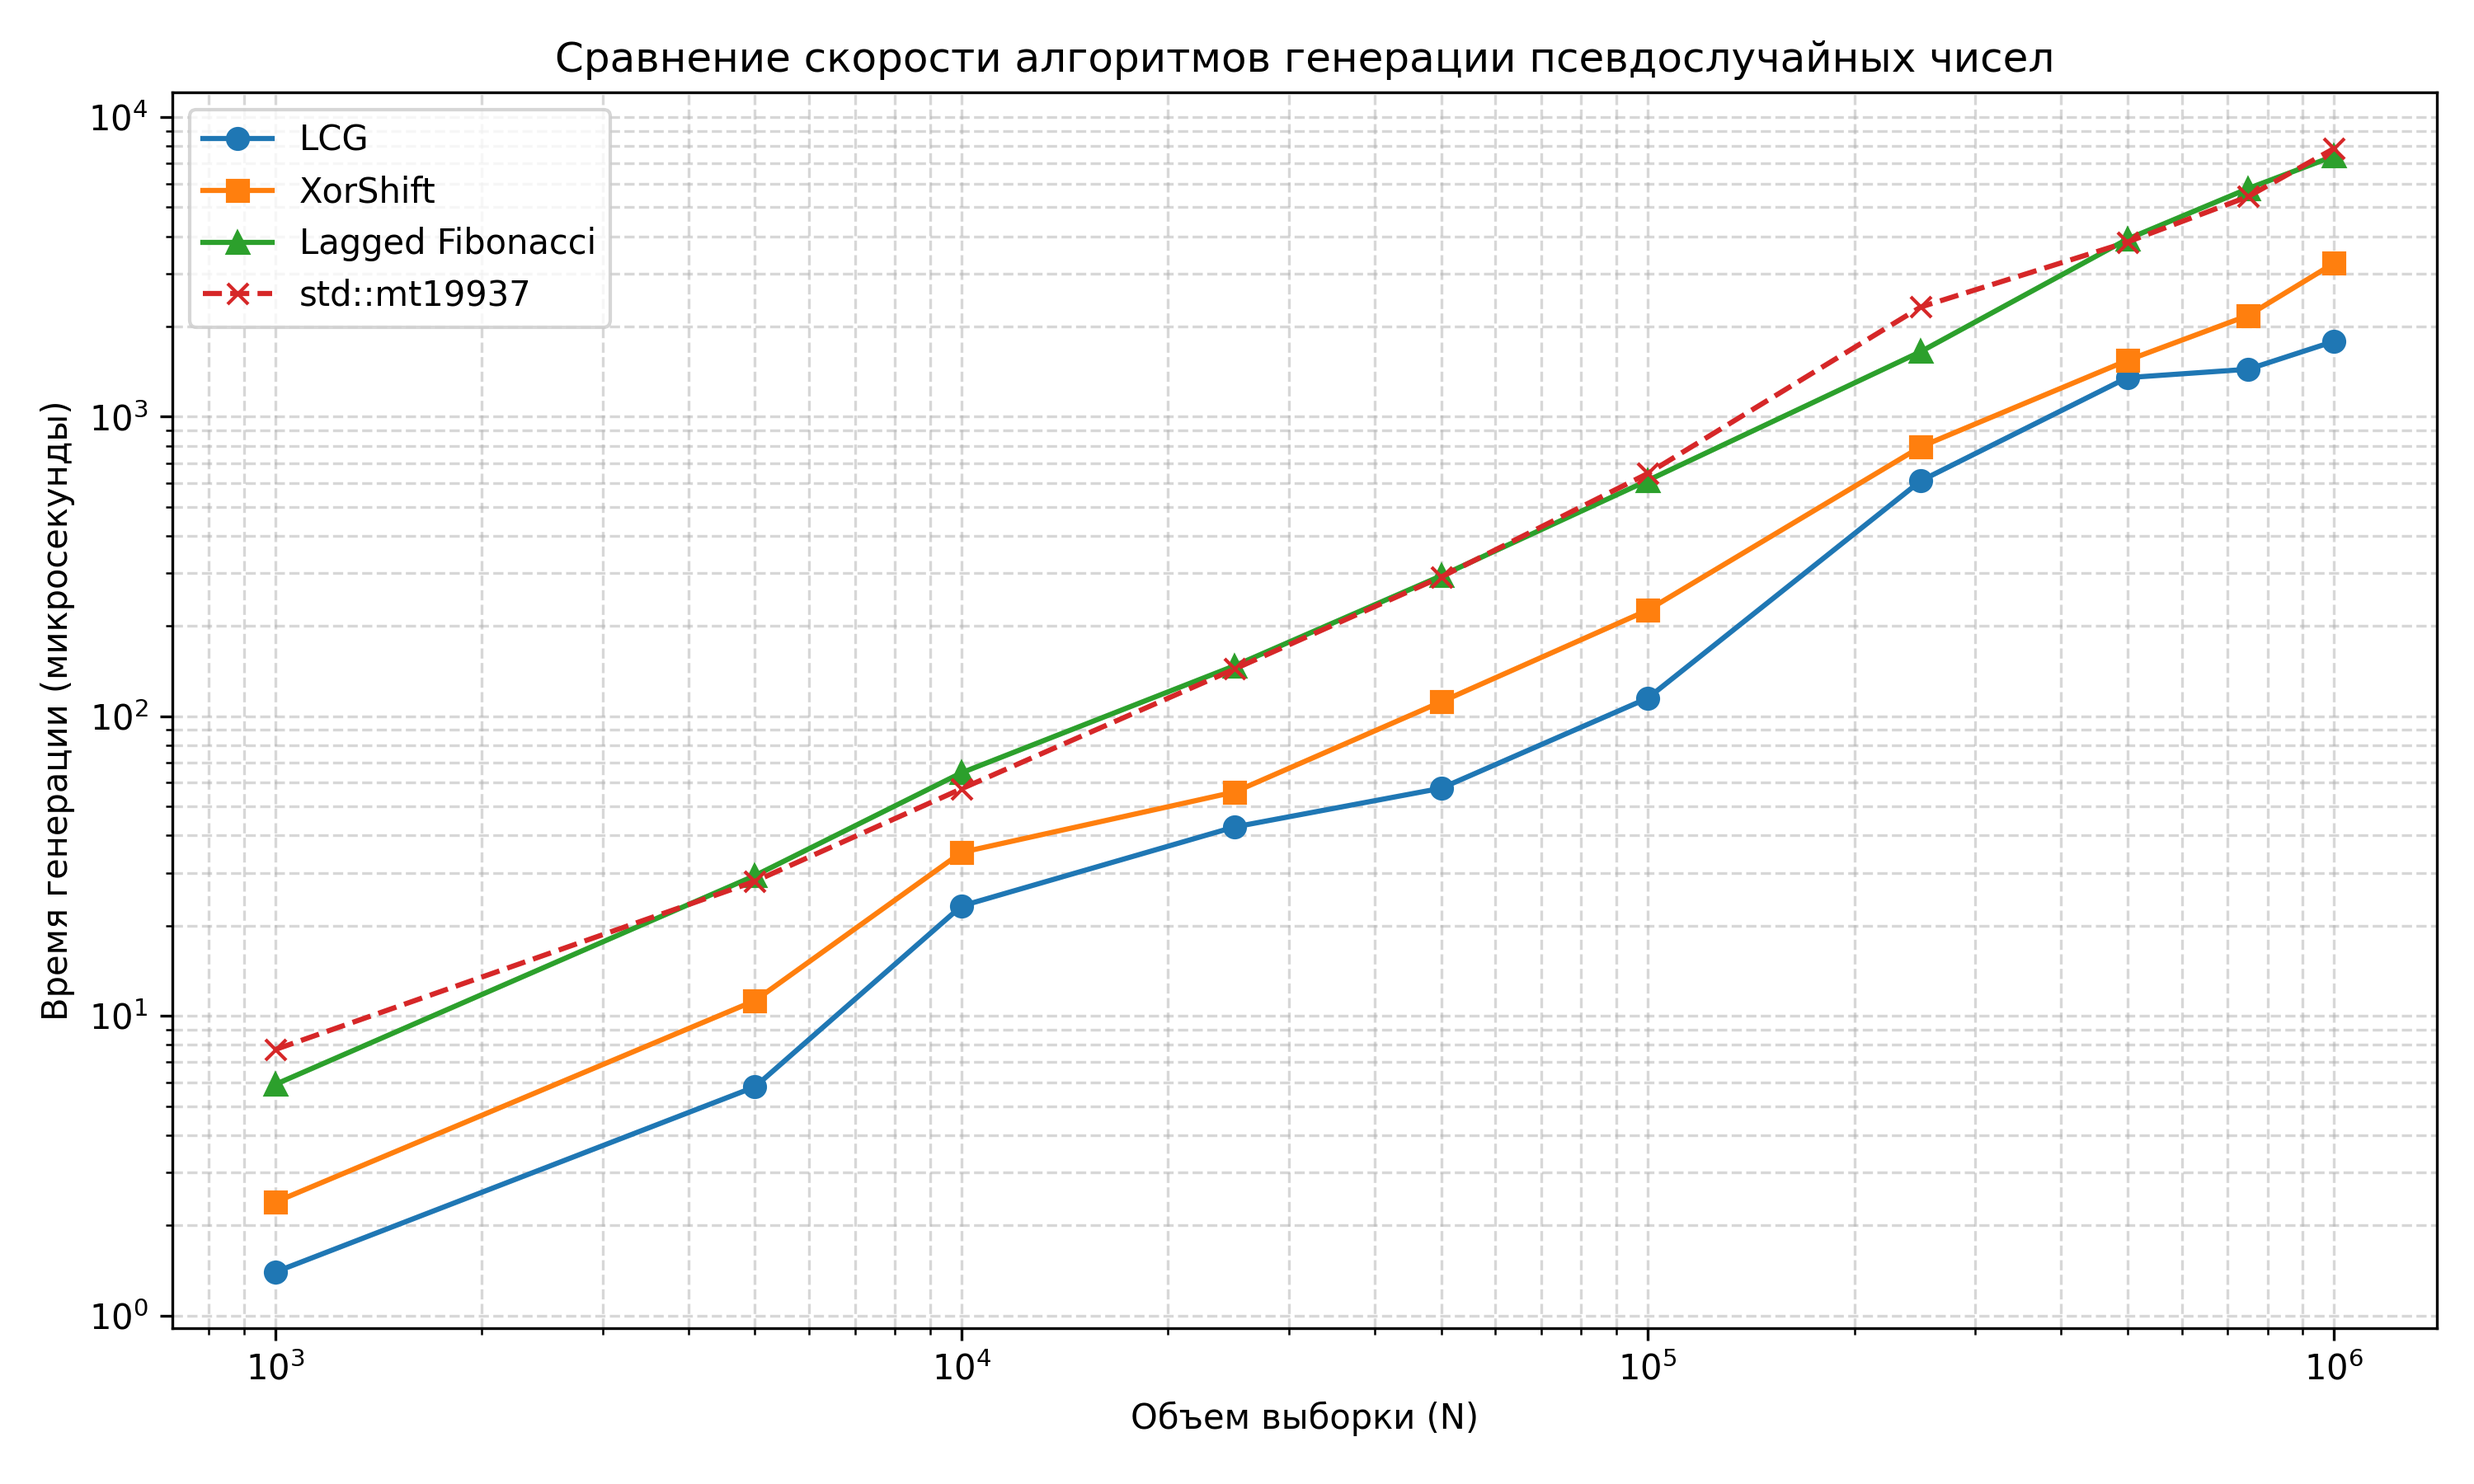
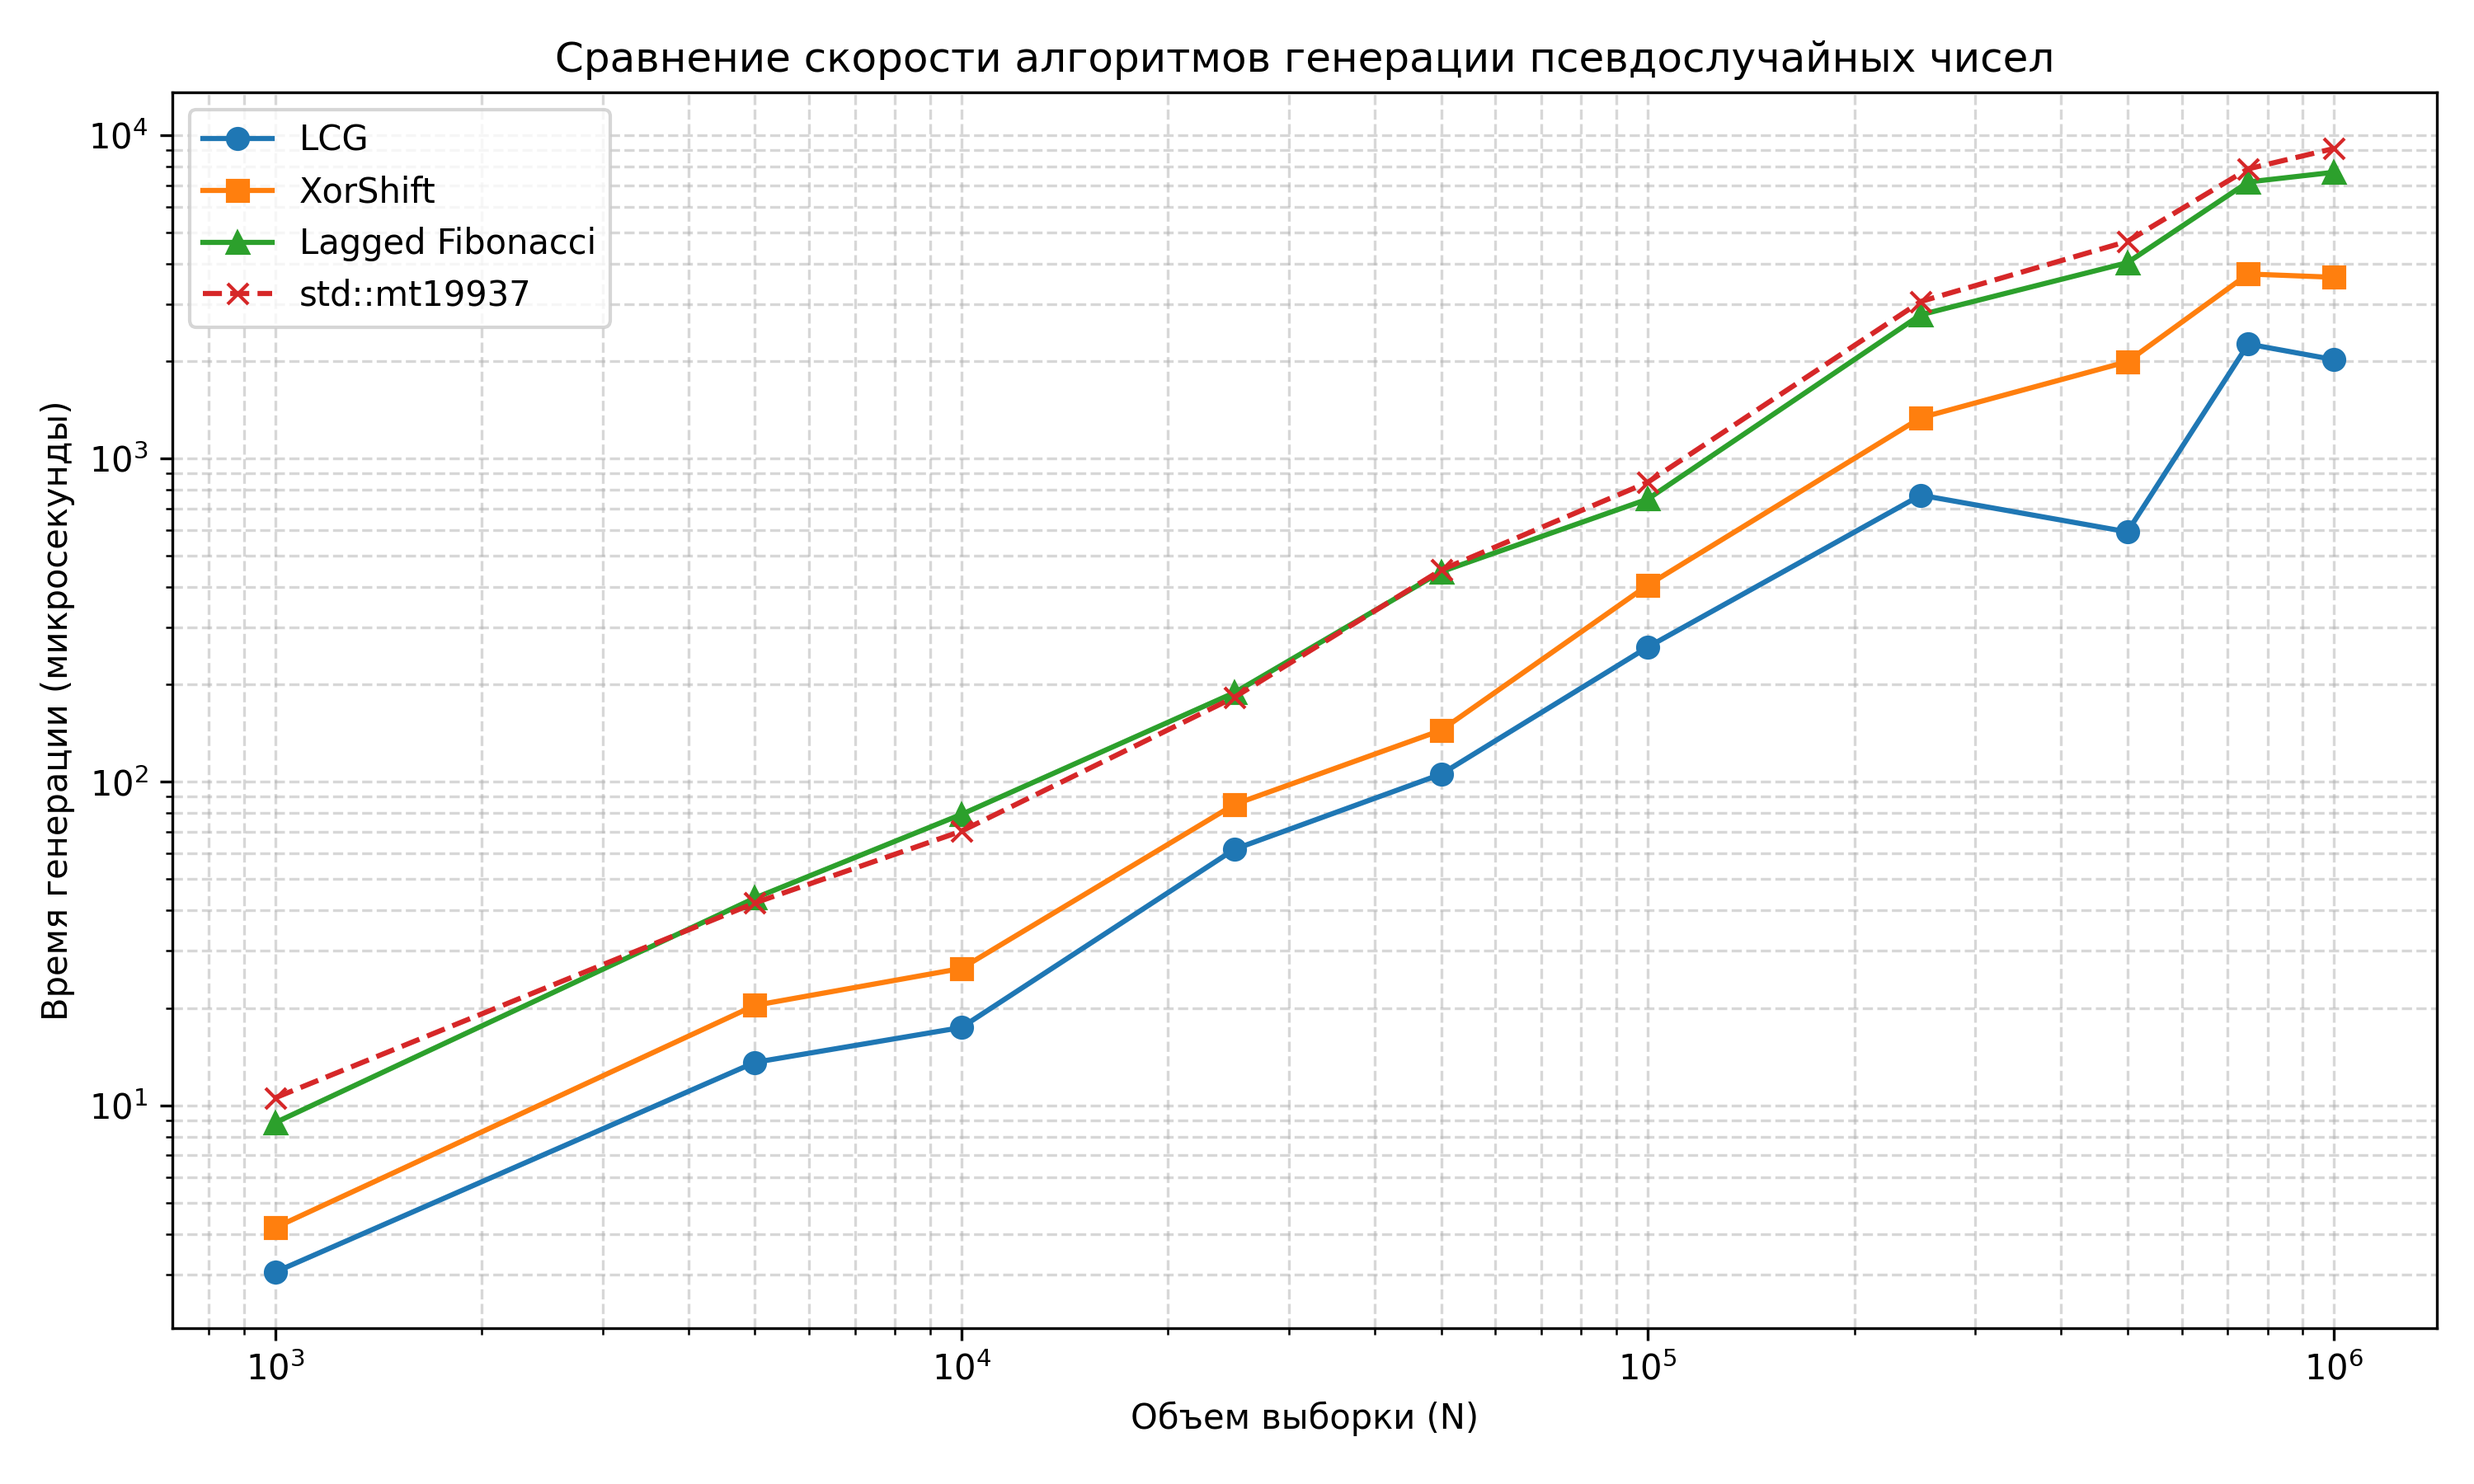
chi_square functions

diff --git a/stats.cpp b/stats.cpp
@@ -5,10 +5,72 @@
 #include "stats.h"
 #include <cmath>
 #include <algorithm>
+#include <stdexcept>
+
+// функции для проверки Хи-квадрат
+bool checkChiSquare(double chi_square, int df) {
+    if (df <= 0) return false;
+
+    // Таблица критических значений Хи-квадрат для alpha = 0.05
+    static const std::vector<double> chi_square_critical_005 = {
+        0.0,
+        3.841,  5.991,  7.815,  9.488,  11.070, 12.592, 14.067, 15.507, 16.919, 18.307,
+        19.675, 21.026, 22.362, 23.685, 24.996, 26.296, 27.587, 28.869, 30.144, 31.410,
+        32.671, 33.924, 35.172, 36.415, 37.652, 38.885, 40.113, 41.337, 42.557, 43.773
+    };
+    
+    double critical_value;
+    if (df < chi_square_critical_005.size()) {
+        critical_value = chi_square_critical_005[df];
+    } else {
+        double z = 1.645;
+        critical_value = 0.5 * std::pow((z + std::sqrt(2.0 * df - 1.0)), 2);
+    }
+
+    return chi_square < critical_value;
+}
+
+bool checkSerialRandomness(const std::vector<double>& sample, double max_val) {
+    int n = sample.size();
+    const int k = 5;
+    const int num_cells = k * k; 
+    
+    std::vector<int> observed(num_cells, 0);
+
+    int pairs_count = n / 2;
+    double expected = static_cast<double>(pairs_count) / num_cells;
+
+    for (int i = 0; i < n - 1; i += 2) {
+        double norm1 = sample[i] / max_val;
+        double norm2 = sample[i+1] / max_val;
+
+        int bin1 = static_cast<int>(norm1 * k);
+        int bin2 = static_cast<int>(norm2 * k);
+
+        if (bin1 >= k) bin1 = k - 1;
+        if (bin2 >= k) bin2 = k - 1;
+        if (bin1 < 0) bin1 = 0;
+        if (bin2 < 0) bin2 = 0;
+
+        int cell_index = bin1 * k + bin2;
+        observed[cell_index]++;
+    }
+
+    double chi2_stat = 0.0;
+    for (int i = 0; i < num_cells; ++i) {
+        double diff = observed[i] - expected;
+        chi2_stat += (diff * diff) / expected;
+    }
+
+    double chi2_crit_min = 13.848;
+    double chi2_crit_max = 36.415;
+
+    return (chi2_stat >= chi2_crit_min && chi2_stat <= chi2_crit_max);
+}
 
 Stats calculate_stats(const std::vector<double>& sample, double max_val) {
     size_t n = sample.size();
-    Stats stats = {0.0, 0.0, 0.0, 0.0};
+    Stats stats = {0.0, 0.0, 0.0, 0.0, false, false};
 
     // 1. Математическое ожидание
     for (double val : sample) stats.mean += val;
@@ -25,12 +87,11 @@ Stats calculate_stats(const std::vector<double>& sample, double max_val) {
     // 3. Коэффициент вариации
     stats.cv = stats.stddev / stats.mean;
 
-    // 4. Критерий Хи-квадрат (Формула Стерджеса для k)
-    int k = std::max(1, static_cast<int>(1 + 3.322 * std::log(n))); 
+    // 4. Критерий Хи-квадрат
+    int k = std::max(1, static_cast<int>(1 + std::log2(n))); 
     std::vector<int> frequencies(k, 0);
     
     for (double val : sample) {
-        // Нормализуем значение в индекс корзины
         int idx = static_cast<int>((val / max_val) * k);
         if (idx >= k) idx = k - 1;
         if (idx < 0) idx = 0;
@@ -41,6 +102,12 @@ Stats calculate_stats(const std::vector<double>& sample, double max_val) {
     for (int freq : frequencies) {
         stats.chi_square += std::pow(freq - expected_freq, 2) / expected_freq;
     }
+    
+    // Проверка критерия Хи-квадрат
+    int k_unif = std::max(1, static_cast<int>(1 + std::log2(n))); 
+    stats.is_passed = checkChiSquare(stats.chi_square, k_unif - 1);
+
+    stats.is_random = checkSerialRandomness(sample, max_val);
 
     return stats;
 }

diff --git a/utils.h b/utils.h
@@ -62,8 +62,10 @@ void run_and_save_statistics(PRNG& gen, const std::string& gen_name, std::ofstre
                              
     std::cout << "\nСтатистика " << num_samples << " выборок для " << gen_name 
               << " (Диапазон 0-" << range_max << ")\n";
+              
     std::cout << std::setw(8) << "Sample" << std::setw(15) << "Mean" << std::setw(15) << "StdDev" 
-              << std::setw(15) << "CV" << std::setw(15) << "Chi-Square" << "\n";
+              << std::setw(15) << "CV" << std::setw(15) << "Chi-Square" 
+              << std::setw(10) << "Uniform?" << std::setw(10) << "Random?" << "\n";
          
     for (int i = 0; i < num_samples; ++i) {
         std::vector<double> sample(sample_size);
@@ -73,16 +75,19 @@ void run_and_save_statistics(PRNG& gen, const std::string& gen_name, std::ofstre
         
         Stats s = calculate_stats(sample, range_max);
         
-        // Вывод в консоль
         std::cout << std::setw(8) << i + 1 
                   << std::setw(15) << s.mean 
                   << std::setw(15) << s.stddev 
                   << std::setw(15) << s.cv 
-                  << std::setw(15) << s.chi_square << "\n";
+                  << std::setw(15) << s.chi_square
+                  << std::setw(10) << (s.is_passed ? "Yes" : "No")
+                  << std::setw(10) << (s.is_random ? "Yes" : "No") << "\n";
              
-        // Запись в CSV файл
+        // Запись в CSV файл 
         csv_file << gen_name << "," << i + 1 << "," << s.mean << "," 
-                 << s.stddev << "," << s.cv << "," << s.chi_square << "\n";
+                 << s.stddev << "," << s.cv << "," << s.chi_square << ","
+                 << (s.is_passed ? "Yes" : "No") << ","
+                 << (s.is_random ? "Yes" : "No") << "\n";
     }
 }
 

diff --git a/stats.h b/stats.h
@@ -11,10 +11,12 @@
  * @brief Структура для хранения статистических данных выборки.
  */
 struct Stats {
-    double mean;       ///< Математическое ожидание
-    double stddev;     ///< Среднеквадратичное отклонение
-    double cv;         ///< Коэффициент вариации
-    double chi_square; ///< Значение критерия Хи-квадрат
+    double mean;       // Математическое ожидание
+    double stddev;     // Среднеквадратичное отклонение
+    double cv;         // Коэффициент вариации
+    double chi_square; // Значение критерия Хи-квадрат
+    bool is_passed; // Пройден ли тест на равномерность
+    bool is_random; // Пройден ли тест на случайность
 };
 
 /**

diff --git a/main.cpp b/main.cpp
@@ -28,7 +28,7 @@ int main() {
     const double range_max = 5000.0;
 
     ofstream stats_results("prng_stats.csv");
-    stats_results << "Generator,Sample,Mean,StdDev,CV,ChiSquare\n";
+    stats_results << "Generator,Sample,Mean,StdDev,CV,ChiSquare,Uniform_Passed,Random_Passed\n";
 
     run_and_save_statistics(lcg, "LCG", stats_results, num_samples, sample_size, range_max);
     run_and_save_statistics(xor_gen, "XorShift", stats_results, num_samples, sample_size, range_max);
@@ -36,7 +36,7 @@ int main() {
     
     stats_results.close();
     cout << "\n Cтатистика по всем выборкам сохранена в prng_stats.csv\n";
-
+    
 
     // Diehard
     cout << "\nГенерация бинарных данных для тестов Diehard\n";
